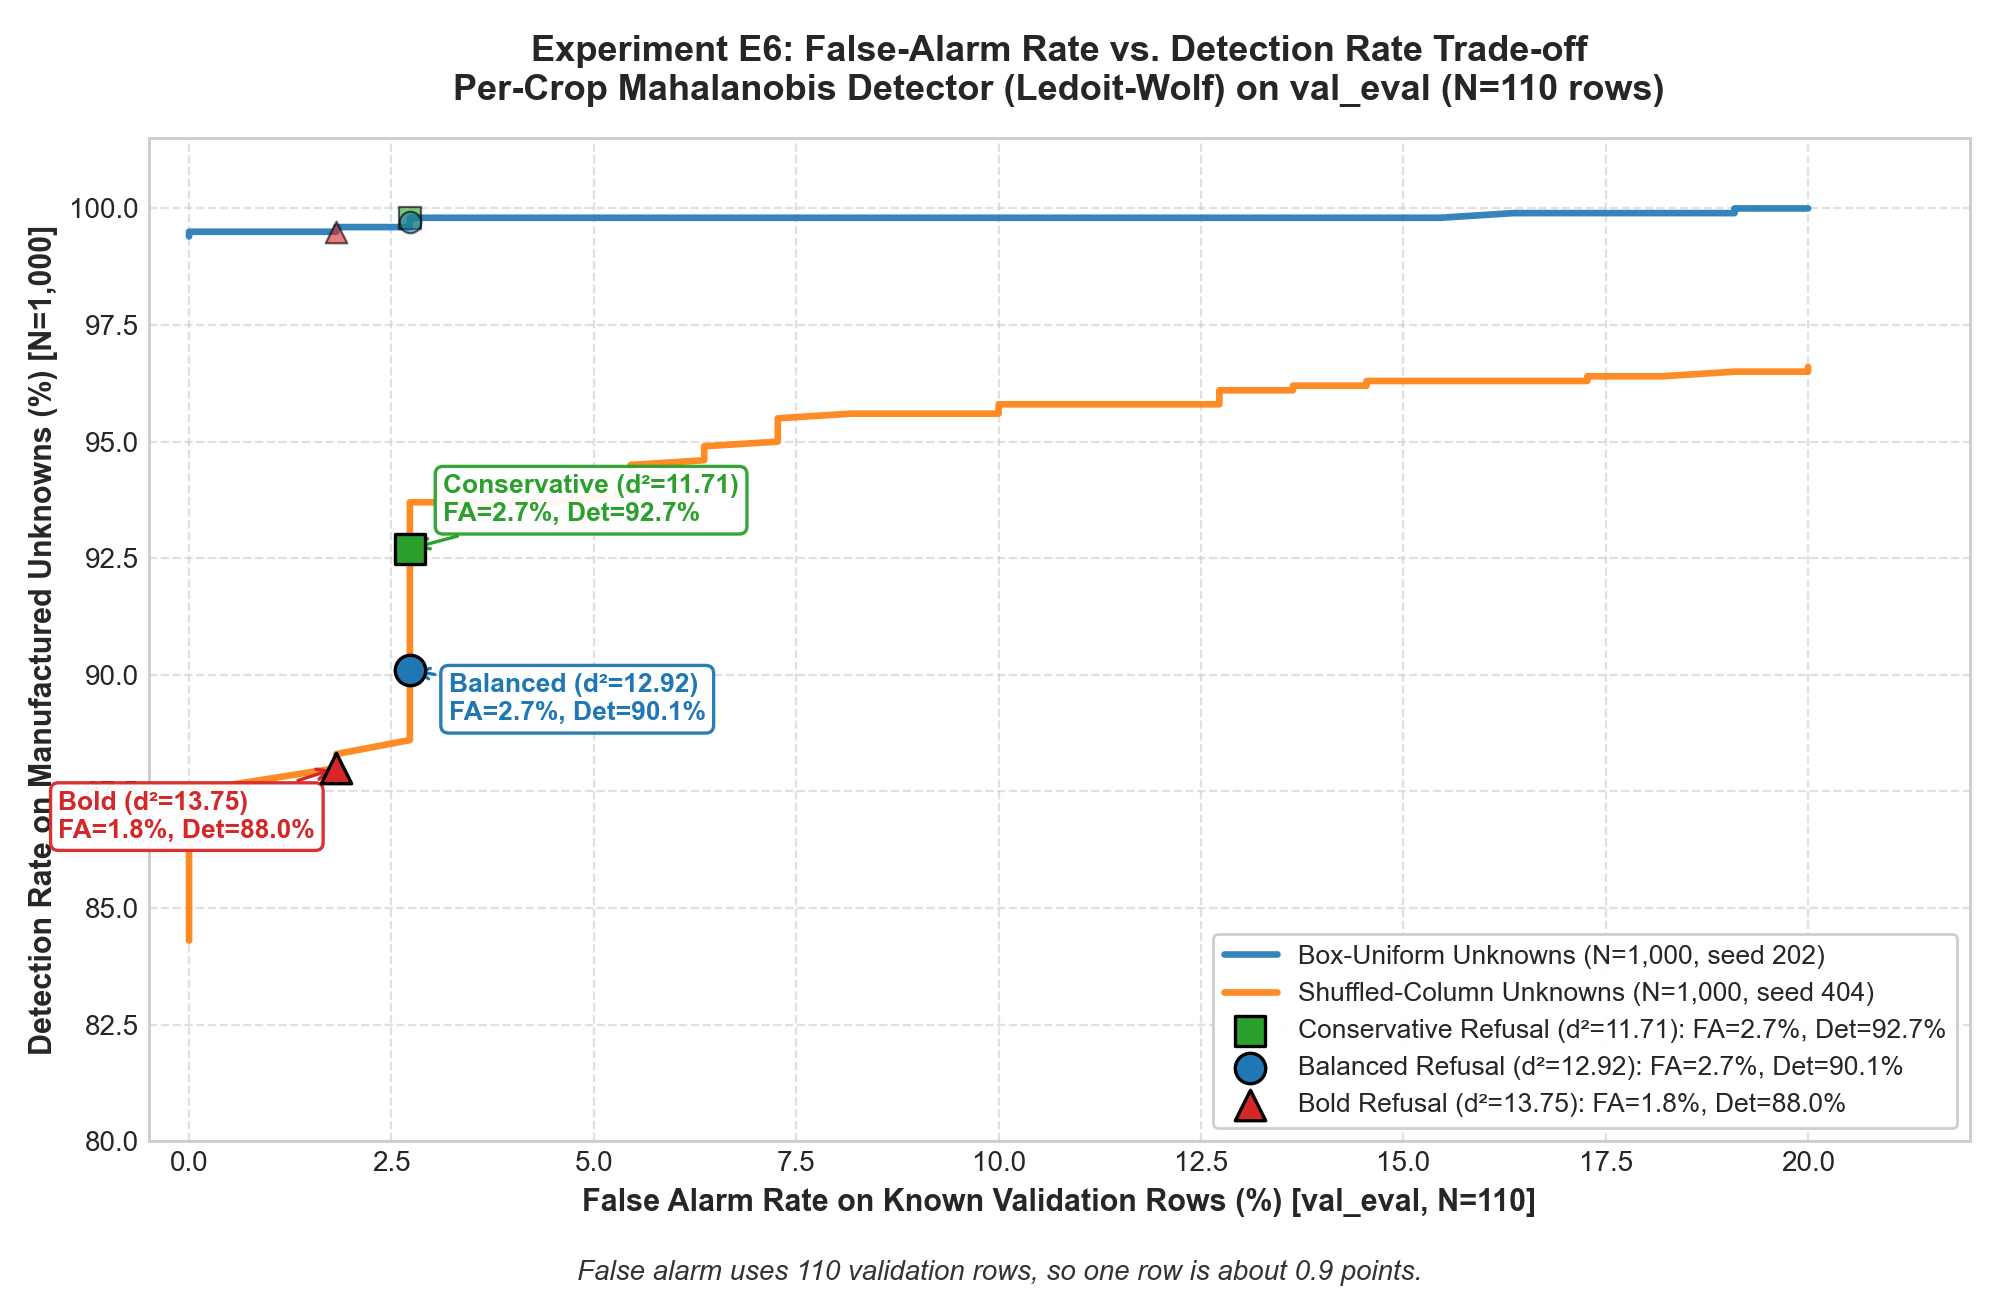
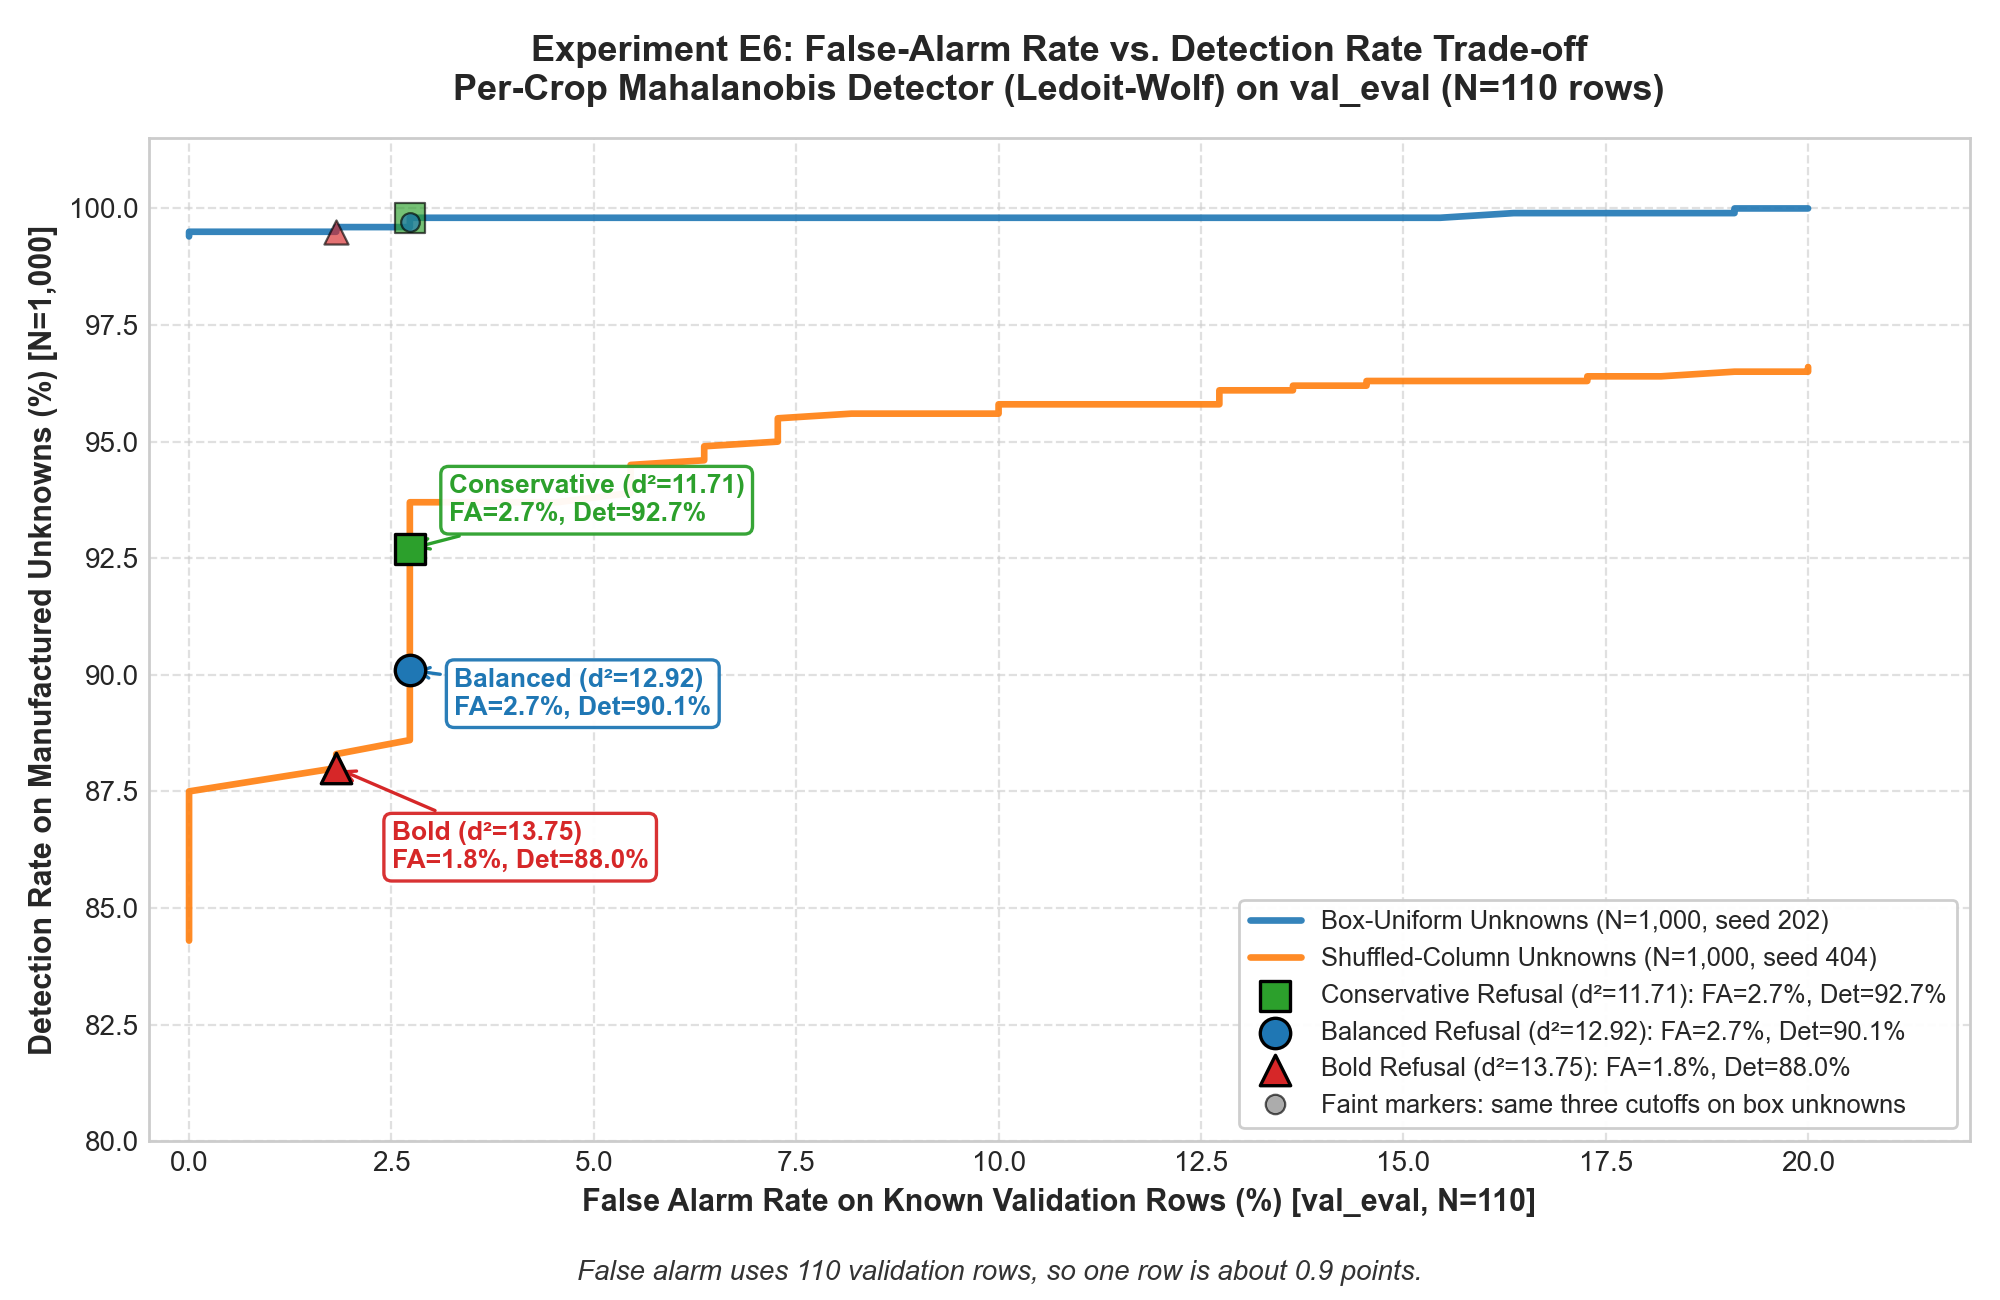
E6 figure: move Bold label off the axis, explain faint box markers

diff --git a/notebooks/04c_e6_plot.py b/notebooks/04c_e6_plot.py
@@ -266,6 +266,12 @@ def main() -> None:
     )
 
     # Plot markers for the 3 chosen thresholds on the Shuffled curve and Box curve
+    box_marker_sizes = {
+        "Conservative": 110,
+        "Balanced": 45,
+        "Bold": 75,
+    }
+
     for name, cut, color, marker in profiles_to_plot:
         coords = marker_coords[name]
         fa = coords["fa_pct"]
@@ -285,25 +291,25 @@ def main() -> None:
             label=f"{name} Refusal (d²={cut:.2f}): FA={fa:.1f}%, Det={s_det:.1f}%",
         )
 
-        # Subtle marker on Box curve
+        # Subtle marker on Box curve (distinguishable sizes for overlapping coords)
         ax.scatter(
             [fa],
             [b_det],
             color=color,
             marker=marker,
-            s=60,
-            zorder=5,
+            s=box_marker_sizes[name],
+            zorder=6 if name == "Balanced" else 5,
             edgecolors="black",
             linewidths=0.8,
-            alpha=0.6,
+            alpha=0.65,
         )
 
     # Annotations on the curve with callouts
-    # Offset labels to avoid overlap
+    # Offset labels to avoid overlap; Bold placed to the right and below inside plot area
     offsets = {
-        "Conservative": (12, 10),
-        "Balanced": (14, -18),
-        "Bold": (-100, -25),
+        "Conservative": (14, 10),
+        "Balanced": (16, -16),
+        "Bold": (20, -36),
     }
     for name, cut, color, marker in profiles_to_plot:
         coords = marker_coords[name]
@@ -332,7 +338,25 @@ def main() -> None:
     ax.set_xlim(-0.5, 22.0)
     ax.set_ylim(80.0, 101.5)
     ax.grid(True, linestyle="--", alpha=0.6)
-    ax.legend(loc="lower right", frameon=True, framealpha=0.95, fontsize=9.5)
+
+    # Add legend entry explaining the faint box-unknown markers
+    import matplotlib.lines as mlines
+    faint_proxy = mlines.Line2D(
+        [],
+        [],
+        color="gray",
+        marker="o",
+        linestyle="None",
+        markersize=7,
+        alpha=0.65,
+        markeredgecolor="black",
+        markeredgewidth=0.8,
+        label="Faint markers: same three cutoffs on box unknowns",
+    )
+    handles, labels = ax.get_legend_handles_labels()
+    handles.append(faint_proxy)
+    labels.append(faint_proxy.get_label())
+    ax.legend(handles=handles, labels=labels, loc="lower right", frameon=True, framealpha=0.95, fontsize=9.2)
 
     # Required caption line
     fig.text(
